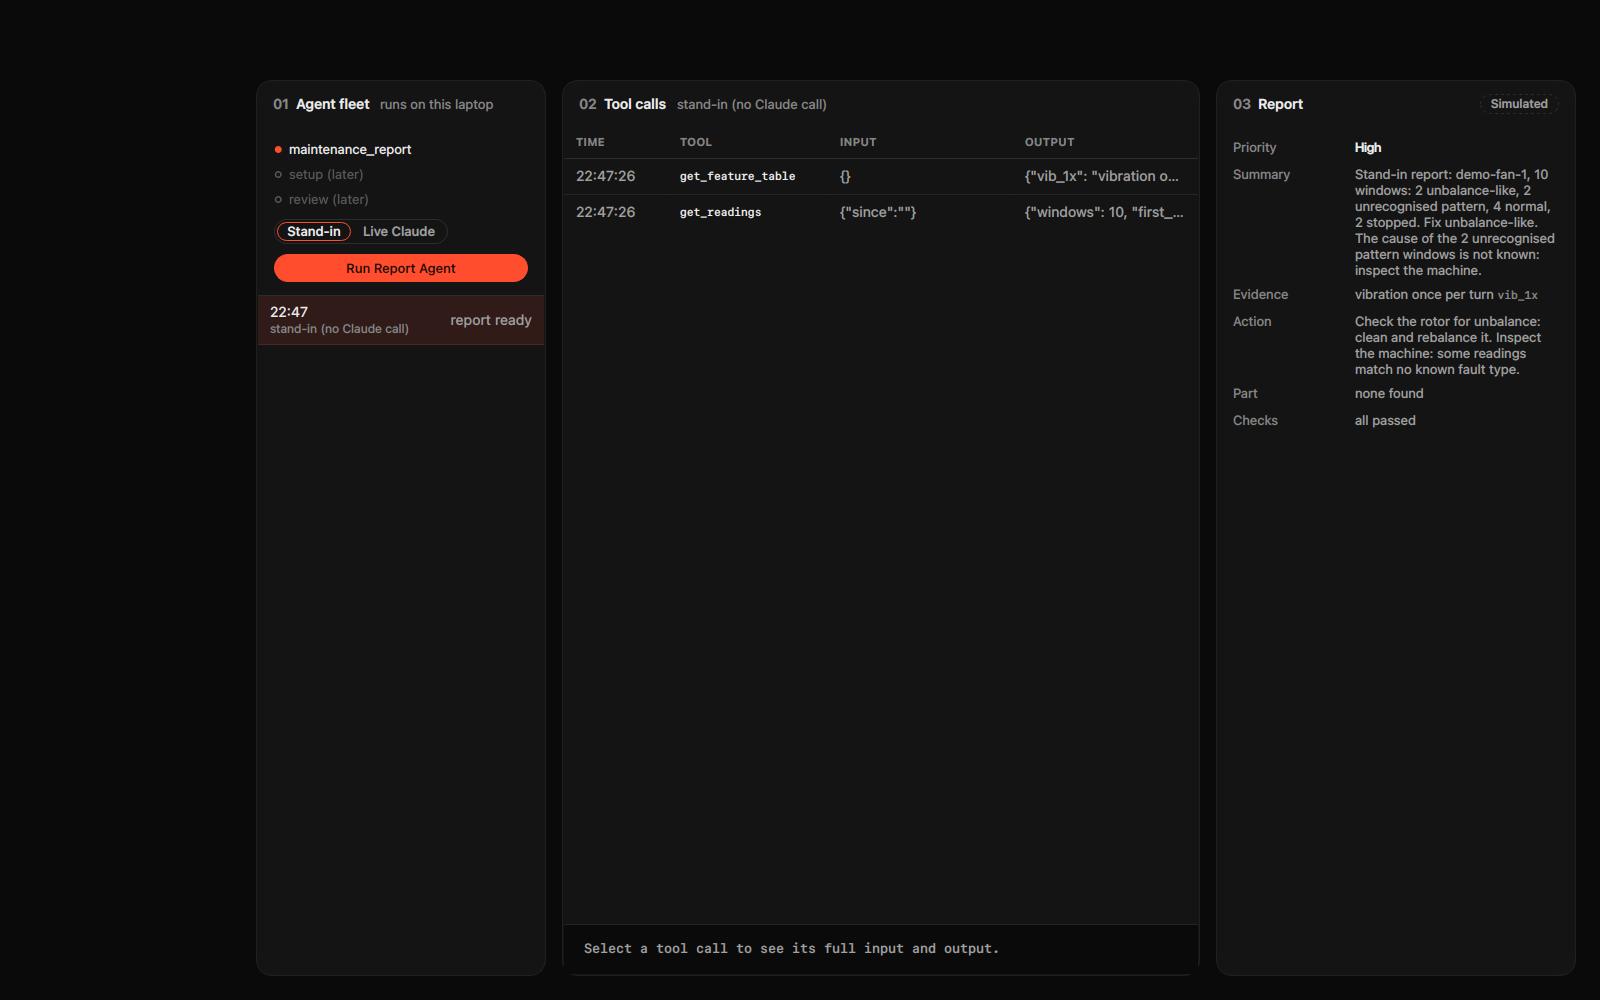
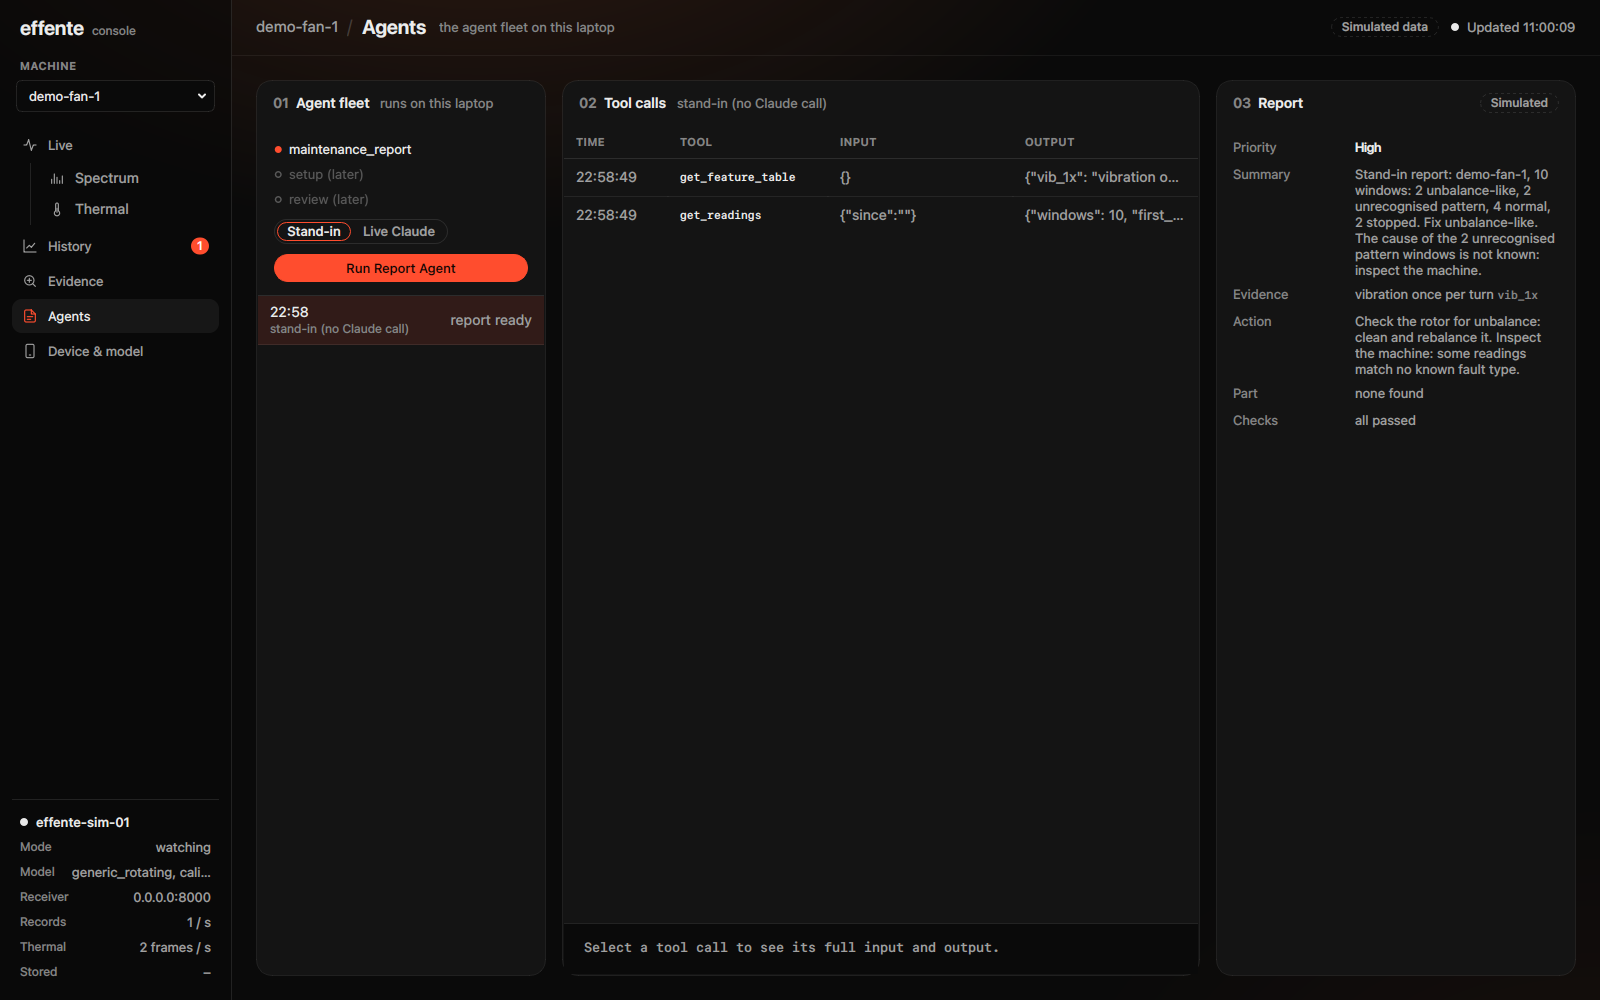
docs: review page screenshots inside the real shell

diff --git a/platform/desktop/tests/pages_review/shoot.py b/platform/desktop/tests/pages_review/shoot.py
@@ -1,10 +1,8 @@
-"""Render the Evidence, Agents and Device & model pages on FakeState to PNGs.
+"""Render the Evidence, Agents and Device & model pages inside the shell on FakeState.
 
     QT_QPA_PLATFORM=offscreen python3 platform/desktop/tests/pages_review/shoot.py [out_dir]
 
-Each page is placed where the shell puts it in a 1600x1000 window (after the
-232px sidebar, the 56px top bar and 24px of padding) on the page background.
-The sidebar and top bar are left empty: this renders the page alone.
+The real MainWindow at 1600x1000, with the sample data of tests/fakes.py.
 """
 
 from __future__ import annotations
@@ -18,46 +16,30 @@ HERE = Path(__file__).resolve().parent
 for p in (HERE.parents[1], HERE.parent):
     sys.path.insert(0, str(p))
 
+from app.shell import MainWindow
 from app.theme import apply_theme
-from app.theme import tokens as t
-from PySide6.QtWidgets import QApplication, QWidget
+from PySide6.QtWidgets import QApplication
 
 W, H = 1600, 1000
-PAGE_X = t.SIDEBAR_W + t.CONTENT_PAD
-PAGE_Y = t.TOPBAR_H + t.CONTENT_PAD
-
-
-def render(page_cls, state, out: Path, prepare=None) -> Path:
-    frame = QWidget()
-    frame.setObjectName("frame")
-    frame.setStyleSheet(f"#frame {{ background: {t.BG}; }}")
-    frame.resize(W, H)
-    page = page_cls(frame)
-    page.setGeometry(PAGE_X, PAGE_Y, W - PAGE_X - t.CONTENT_PAD, H - PAGE_Y - t.CONTENT_PAD)
-    page.bind(state)
-    if prepare:
-        prepare(page)
-    frame.show()
-    for _ in range(5):
-        QApplication.processEvents()
-    frame.grab().save(str(out))
-    frame.close()
-    return out
 
 
 def main(out_dir: str | None = None) -> None:
-    from app.pages.agents import AgentsPage
-    from app.pages.device import DevicePage
-    from app.pages.evidence import EvidencePage
     from fakes import FakeState
 
     app = QApplication.instance() or QApplication(sys.argv[:1])
     apply_theme(app)
     out = Path(out_dir or HERE.parents[1] / "screenshots" / "review")
     out.mkdir(parents=True, exist_ok=True)
-    state = FakeState()
-    for name, cls in (("evidence", EvidencePage), ("agent", AgentsPage), ("device", DevicePage)):
-        print(render(cls, state, out / f"{name}.png"))
+    w = MainWindow(FakeState(), receiver_address="0.0.0.0:8000")
+    w.resize(W, H)
+    w.show()
+    for key in ("evidence", "agent", "device"):
+        w.navigate(key)
+        for _ in range(5):
+            app.processEvents()
+        path = out / f"{key}.png"
+        w.grab().save(str(path))
+        print(path)
 
 
 if __name__ == "__main__":
